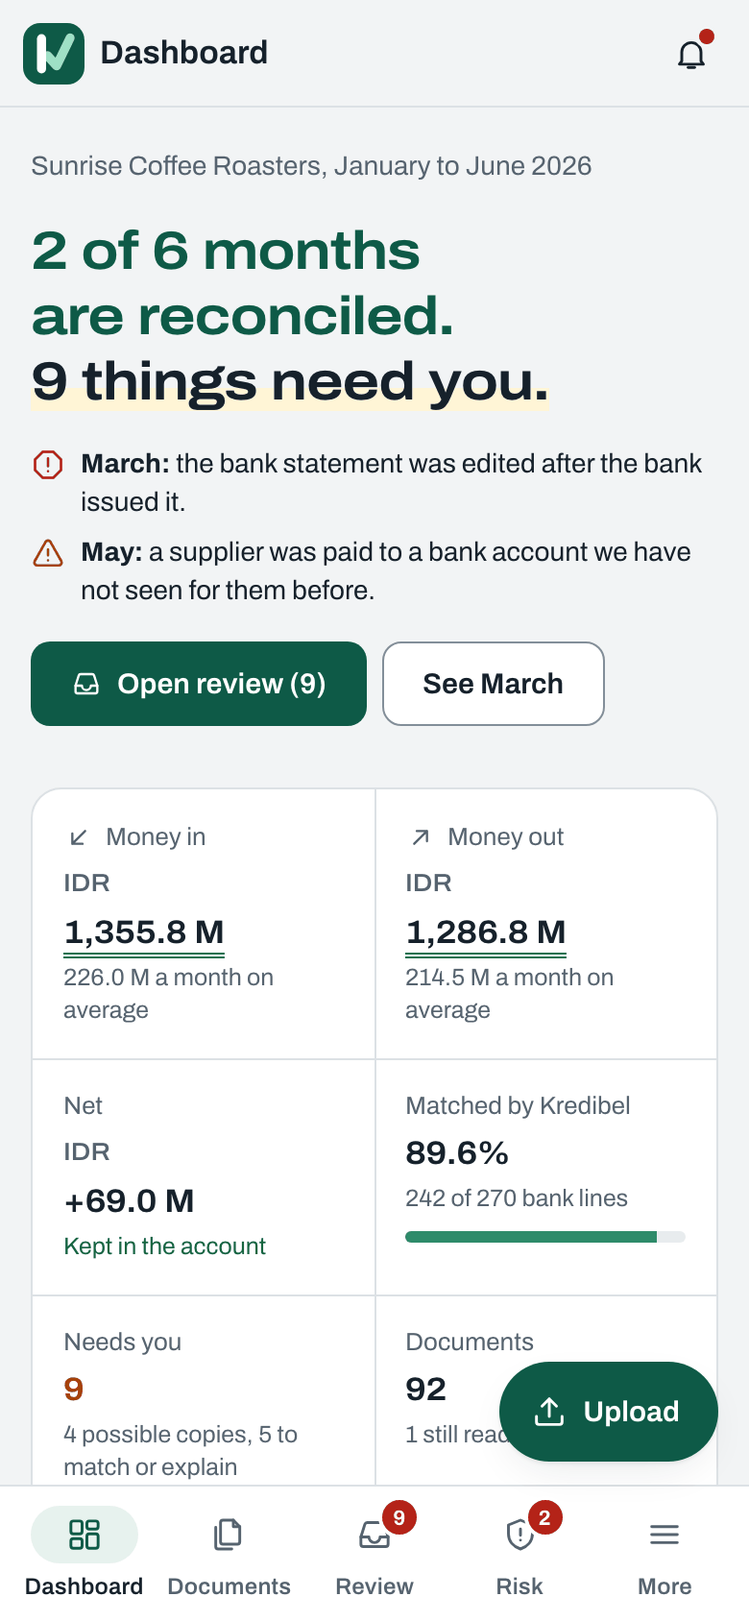
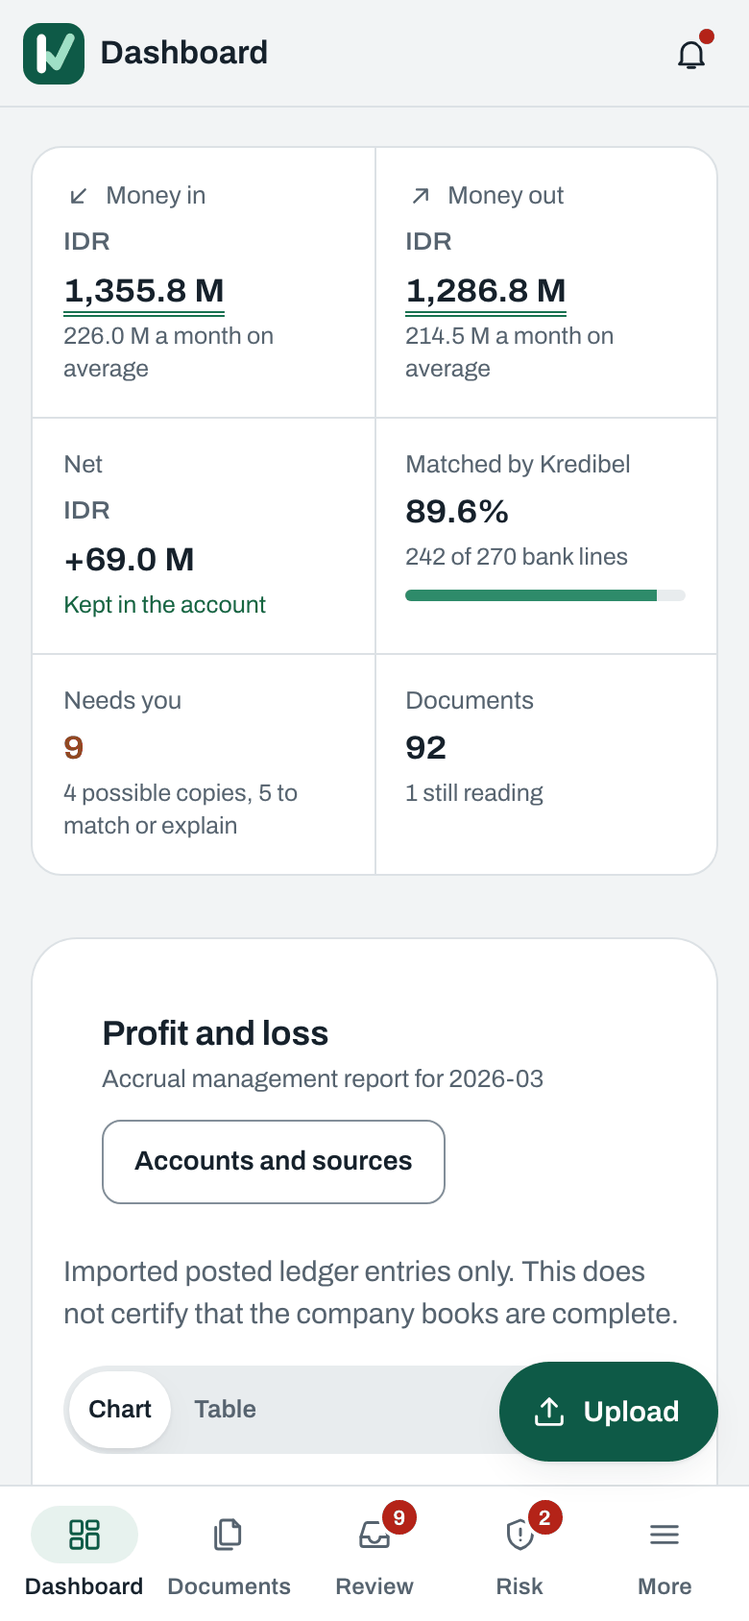
feat(018): align P&L dashboard mocks and render interactive P&L diagram in assistant
Tasks: T018-04, T018-05, T018-06

Changed region(s): [[0.0308, 0.0924, 0.9231, 0.9242]]

diff --git a/design/mocks/dashboard.html b/design/mocks/dashboard.html
@@ -37,16 +37,6 @@
 <div class="page">
   <div class="dash">
     
-<section class="status-hero" aria-labelledby="status-h">
-  <p class="greeting">Sunrise Coffee Roasters, January to June 2026</p>
-  <h1 class="status-sentence" id="status-h"><span class="done">2 of 6 months are reconciled.</span> <span class="ask">9 things need you.</span></h1>
-  <ul class="why">
-    <li><span class="sev-critical"><svg class="icon" viewBox="0 0 24 24" aria-hidden="true"><path d="M8.3 3h7.4L21 8.3v7.4L15.7 21H8.3L3 15.7V8.3z"/><path d="M12 7.5V13M12 16.5h.01"/></svg></span><span><strong>March:</strong> the bank statement was edited after the bank issued it.</span></li>
-    <li><span class="sev-high"><svg class="icon" viewBox="0 0 24 24" aria-hidden="true"><path d="M10.3 4.2 2.8 17.5a2 2 0 0 0 1.7 3h15a2 2 0 0 0 1.7-3L13.7 4.2a2 2 0 0 0-3.4 0z"/><path d="M12 9.5v4M12 17h.01"/></svg></span><span><strong>May:</strong> a supplier was paid to a bank account we have not seen for them before.</span></li>
-  </ul>
-  <div class="actions"><a class="button button-primary button-lg" href="review.html"><svg class="icon icon-sm" viewBox="0 0 24 24" aria-hidden="true"><path d="M3.5 13.5 6 5.5A1.5 1.5 0 0 1 7.4 4.5h9.2A1.5 1.5 0 0 1 18 5.5l2.5 8"/><path d="M3.5 13.5V18A1.5 1.5 0 0 0 5 19.5h14a1.5 1.5 0 0 0 1.5-1.5v-4.5h-5a3.5 3.5 0 0 1-7 0z"/></svg>Open review (9)</a><a class="button button-secondary button-lg" href="month.html">See March</a></div>
-</section>
-    
 <section class="ledger" aria-label="Figures for January to June 2026">
   <dl class="ledger-figures">
     <div><dt><svg class="icon icon-sm" viewBox="0 0 24 24" aria-hidden="true"><path d="M17 7 7 17M7 9v8h8"/></svg>Money in</dt><dd class="v"><small>IDR</small><span class="reading reading-agreed">1,355.8 M</span></dd><dd class="n">226.0 M a month on average</dd></div>
@@ -58,29 +48,14 @@
   </dl>
 </section>
     
-<div class="dash-lists">
-  <section class="panel" aria-labelledby="todo-h">
-    <div class="panel-head"><h2 id="todo-h">Needs you</h2><a class="link" href="review.html">All 9</a></div>
-    <ul class="todo-list"><li><a class="todo" href="review.html"><span class="kind match"><svg class="icon" viewBox="0 0 24 24" aria-hidden="true"><path d="M10 14a4 4 0 0 0 5.7 0l3-3a4 4 0 0 0-5.7-5.7l-1 1"/><path d="M14 10a4 4 0 0 0-5.7 0l-3 3a4 4 0 0 0 5.7 5.7l1-1"/></svg></span><span><span class="t">IDR 7,250,000 on 14 Mar differs from your ledger</span><br/><span class="s">Harborview Hotel Group; the March statement looks edited</span></span><span class="go"><svg class="icon" viewBox="0 0 24 24" aria-hidden="true"><path d="m9.5 6 6 6-6 6"/></svg></span></a></li><li><a class="todo" href="review.html"><span class="kind dup"><svg class="icon" viewBox="0 0 24 24" aria-hidden="true"><rect x="8" y="8" width="12" height="12" rx="2"/><path d="M16 8V5.5A1.5 1.5 0 0 0 14.5 4h-9A1.5 1.5 0 0 0 4 5.5v9A1.5 1.5 0 0 0 5.5 16H8"/></svg></span><span><span class="t">Possible copy of the February statement</span><br/><span class="s">ACB_Feb_2026 (re-download).pdf has the same 45 lines</span></span><span class="go"><svg class="icon" viewBox="0 0 24 24" aria-hidden="true"><path d="m9.5 6 6 6-6 6"/></svg></span></a></li><li><a class="todo" href="review.html"><span class="kind match"><svg class="icon" viewBox="0 0 24 24" aria-hidden="true"><path d="M10 14a4 4 0 0 0 5.7 0l3-3a4 4 0 0 0-5.7-5.7l-1 1"/><path d="M14 10a4 4 0 0 0-5.7 0l-3 3a4 4 0 0 0 5.7 5.7l1-1"/></svg></span><span><span class="t">IDR 18,700,000 on 9 Feb fits two invoices</span><br/><span class="s">Daybreak Café, invoices 0003 and 0004</span></span><span class="go"><svg class="icon" viewBox="0 0 24 24" aria-hidden="true"><path d="m9.5 6 6 6-6 6"/></svg></span></a></li><li><a class="todo" href="review.html"><span class="kind doc"><svg class="icon" viewBox="0 0 24 24" aria-hidden="true"><path d="M14 3H6.5A1.5 1.5 0 0 0 5 4.5v15A1.5 1.5 0 0 0 6.5 21h11a1.5 1.5 0 0 0 1.5-1.5V8z"/><path d="M14 3v5h5M8.5 13h7M8.5 16.5h7"/></svg></span><span><span class="t">Two Bluewater Trading Co. invoices never paid</span><br/><span class="s">No bank line or ledger entry for either</span></span><span class="go"><svg class="icon" viewBox="0 0 24 24" aria-hidden="true"><path d="m9.5 6 6 6-6 6"/></svg></span></a></li><li><a class="todo" href="review.html"><span class="kind doc"><svg class="icon" viewBox="0 0 24 24" aria-hidden="true"><path d="M4 7.5A2.5 2.5 0 0 1 6.5 5H18v3"/><path d="M4 7.5V17a2 2 0 0 0 2 2h13a1 1 0 0 0 1-1v-9a1 1 0 0 0-1-1H6.5A2.5 2.5 0 0 1 4 7.5z"/><circle cx="16" cy="13.5" r="1"/></svg></span><span><span class="t">Cash deposit of IDR 2,150,000 is not in the ledger</span><br/><span class="s">21 Jun, ACB ••4821</span></span><span class="go"><svg class="icon" viewBox="0 0 24 24" aria-hidden="true"><path d="m9.5 6 6 6-6 6"/></svg></span></a></li></ul>
-  </section>
-  <section class="panel" aria-labelledby="risk-h">
-    <div class="panel-head"><h2 id="risk-h">Risk</h2><a class="link" href="risk.html">All findings</a></div>
-    <ul class="alert-list">
-      <li><a href="evidence-viewer.html"><span class="sev"><span class="badge badge-critical"><svg class="icon" viewBox="0 0 24 24" aria-hidden="true"><path d="M8.3 3h7.4L21 8.3v7.4L15.7 21H8.3L3 15.7V8.3z"/><path d="M12 7.5V13M12 16.5h.01"/></svg>Critical</span></span><span><p class="a-t">March statement edited after the bank issued it</p><p class="a-s">Balance breaks on 14 Mar; a later revision in a PDF editor</p></span></a></li>
-      <li><a href="risk.html"><span class="sev"><span class="badge badge-high"><svg class="icon" viewBox="0 0 24 24" aria-hidden="true"><path d="M10.3 4.2 2.8 17.5a2 2 0 0 0 1.7 3h15a2 2 0 0 0 1.7-3L13.7 4.2a2 2 0 0 0-3.4 0z"/><path d="M12 9.5v4M12 17h.01"/></svg>High</span></span><span><p class="a-t">Roastline Equipment Service paid to a new account</p><p class="a-s">6 May, IDR 24,500,000 to Meridian Savings ••7720; before: ACB ••3381</p></span></a></li>
-      <li><a href="risk.html"><span class="sev"><span class="badge badge-medium"><svg class="icon" viewBox="0 0 24 24" aria-hidden="true"><circle cx="12" cy="12" r="9"/><path d="M12 7.5V13M12 16.5h.01"/></svg>Medium</span></span><span><p class="a-t">Invoices from an unknown supplier</p><p class="a-s">Bluewater Trading Co., 2 invoices, never paid, not in the ledger</p></span></a></li>
-    </ul>
-  </section>
-</div>
-    <section class="chart-panel panel-pad stack gap-4" aria-label="Profit and loss">
+<section class="charts" aria-labelledby="charts-h">
+  <section class="chart-panel panel-pad stack gap-4" aria-label="Profit and loss">
       <div class="chart-head"><div><h2 class="type-h2">Profit and loss</h2><p>Accrual management report for 2026-03</p></div><a class="button button-secondary" href="profit-loss.html">Accounts and sources</a></div>
       <p class="muted">Imported posted ledger entries only. This does not certify that the company books are complete.</p>
       <div class="seg" role="group" aria-label="Profit and loss view"><button type="button" data-group="pnlview" data-value="chart" aria-pressed="true">Chart</button><button type="button" data-group="pnlview" data-value="table" aria-pressed="false">Table</button></div>
       <div class="pnl-bars" data-show-group="pnlview" data-show-value="chart"><div class="pnl-row"><span>Revenue</span><strong class="num">IDR 120,000,000</strong><span class="pnl-track" aria-hidden="true"><span class="pnl-bar" style="width:100.00%"></span></span></div><div class="pnl-row"><span>Cost of sales</span><strong class="num">IDR 72,000,000</strong><span class="pnl-track" aria-hidden="true"><span class="pnl-bar" style="width:60.00%"></span></span></div><div class="pnl-row"><span>Gross profit</span><strong class="num">IDR 48,000,000</strong><span class="pnl-track" aria-hidden="true"><span class="pnl-bar" style="width:40.00%"></span></span></div><div class="pnl-row"><span>Operating expenses</span><strong class="num">IDR 18,000,000</strong><span class="pnl-track" aria-hidden="true"><span class="pnl-bar" style="width:15.00%"></span></span></div><div class="pnl-row"><span>Operating profit</span><strong class="num">IDR 30,000,000</strong><span class="pnl-track" aria-hidden="true"><span class="pnl-bar" style="width:25.00%"></span></span></div><div class="pnl-row"><span>Other income</span><strong class="num">IDR 1,000,000</strong><span class="pnl-track" aria-hidden="true"><span class="pnl-bar" style="width:0.83%"></span></span></div><div class="pnl-row"><span>Finance costs</span><strong class="num">IDR 2,000,000</strong><span class="pnl-track" aria-hidden="true"><span class="pnl-bar" style="width:1.67%"></span></span></div><div class="pnl-row"><span>Income tax</span><strong class="num">IDR 3,000,000</strong><span class="pnl-track" aria-hidden="true"><span class="pnl-bar" style="width:2.50%"></span></span></div><div class="pnl-row"><span>Net profit</span><strong class="num">IDR 26,000,000</strong><span class="pnl-track" aria-hidden="true"><span class="pnl-bar" style="width:21.67%"></span></span></div></div>
       <div class="table-wrap" data-show-group="pnlview" data-show-value="table" hidden><table class="table"><thead><tr><th scope="col">P&amp;L line</th><th scope="col" class="num">Amount</th></tr></thead><tbody><tr><th scope="row">Revenue</th><td class="num">IDR 120,000,000</td></tr><tr><th scope="row">Cost of sales</th><td class="num">IDR 72,000,000</td></tr><tr><th scope="row">Gross profit</th><td class="num">IDR 48,000,000</td></tr><tr><th scope="row">Operating expenses</th><td class="num">IDR 18,000,000</td></tr><tr><th scope="row">Operating profit</th><td class="num">IDR 30,000,000</td></tr><tr><th scope="row">Other income</th><td class="num">IDR 1,000,000</td></tr><tr><th scope="row">Finance costs</th><td class="num">IDR 2,000,000</td></tr><tr><th scope="row">Income tax</th><td class="num">IDR 3,000,000</td></tr><tr><th scope="row">Net profit</th><td class="num">IDR 26,000,000</td></tr></tbody></table></div>
     </section>
-    
-<section class="charts" aria-labelledby="charts-h">
   <div class="section-head charts-section-head">
     <div><h2 class="type-h2" id="charts-h">Where the money went</h2><p>January to June 2026, IDR millions, grouped the way your accounting framework groups cash flows.</p></div>
     <div class="fw-switch"><span>Framework</span><div class="seg" role="group" aria-label="Accounting framework"><button type="button" data-group="fw" data-value="IFRS" aria-pressed="true">IFRS</button><button type="button" data-group="fw" data-value="US_GAAP" aria-pressed="false">US GAAP</button></div></div>
@@ -124,6 +99,31 @@
   <div class="chart-wide"><div data-show-group="fw" data-show-value="IFRS"><svg class="chart waterfall" viewBox="0 0 1200 256" role="img" aria-label="Cash-flow statement January to June 2026, IFRS"><text class="wf-label" x="238" y="44.0" text-anchor="end">Opening balance</text><rect class="wf total" x="250.0" y="24.0" width="101.2" height="30" rx="4"/><text class="wf-val" x="359.2" y="44.0">29.3</text><line class="wf-link" x1="351.2" x2="351.2" y1="54.0" y2="70.0"/><text class="wf-label" x="238" y="90.0" text-anchor="end">Operating activities</text><rect class="wf operating" x="351.2" y="70.0" width="694.3" height="30" rx="4"/><text class="wf-val" x="1053.5" y="90.0">+201.0</text><line class="wf-link" x1="1045.5" x2="1045.5" y1="100.0" y2="116.0"/><text class="wf-label" x="238" y="136.0" text-anchor="end">Investing activities</text><rect class="wf investing" x="1045.5" y="116.0" width="2.0" height="30" rx="4"/><text class="wf-val" x="1053.5" y="136.0">+0.0</text><line class="wf-link" x1="1045.5" x2="1045.5" y1="146.0" y2="162.0"/><text class="wf-label" x="238" y="182.0" text-anchor="end">Financing activities</text><rect class="wf financing neg" x="589.5" y="162.0" width="455.9" height="30" rx="4"/><text class="wf-val" x="1053.5" y="182.0">−132.0</text><line class="wf-link" x1="589.5" x2="589.5" y1="192.0" y2="208.0"/><text class="wf-label" x="238" y="228.0" text-anchor="end">Closing balance</text><rect class="wf total" x="250.0" y="208.0" width="339.5" height="30" rx="4"/><text class="wf-val" x="597.5" y="228.0">98.3</text></svg></div><div data-show-group="fw" data-show-value="US_GAAP" hidden><svg class="chart waterfall" viewBox="0 0 1200 256" role="img" aria-label="Cash-flow statement January to June 2026, US GAAP"><text class="wf-label" x="238" y="44.0" text-anchor="end">Opening balance</text><rect class="wf total" x="250.0" y="24.0" width="106.5" height="30" rx="4"/><text class="wf-val" x="364.5" y="44.0">29.3</text><line class="wf-link" x1="356.5" x2="356.5" y1="54.0" y2="70.0"/><text class="wf-label" x="238" y="90.0" text-anchor="end">Operating activities</text><rect class="wf operating" x="356.5" y="70.0" width="687.1" height="30" rx="4"/><text class="wf-val" x="1051.6" y="90.0">+189.0</text><line class="wf-link" x1="1043.6" x2="1043.6" y1="100.0" y2="116.0"/><text class="wf-label" x="238" y="136.0" text-anchor="end">Investing activities</text><rect class="wf investing" x="1043.6" y="116.0" width="2.0" height="30" rx="4"/><text class="wf-val" x="1051.6" y="136.0">+0.0</text><line class="wf-link" x1="1043.6" x2="1043.6" y1="146.0" y2="162.0"/><text class="wf-label" x="238" y="182.0" text-anchor="end">Financing activities</text><rect class="wf financing neg" x="607.4" y="162.0" width="436.3" height="30" rx="4"/><text class="wf-val" x="1051.6" y="182.0">−120.0</text><line class="wf-link" x1="607.4" x2="607.4" y1="192.0" y2="208.0"/><text class="wf-label" x="238" y="228.0" text-anchor="end">Closing balance</text><rect class="wf total" x="250.0" y="208.0" width="357.4" height="30" rx="4"/><text class="wf-val" x="615.4" y="228.0">98.3</text></svg></div></div><div class="chart-medium"><div data-show-group="fw" data-show-value="IFRS"><svg class="chart waterfall" viewBox="0 0 800 256" role="img" aria-label="Cash-flow statement January to June 2026, IFRS"><text class="wf-label" x="188" y="44.0" text-anchor="end">Opening balance</text><rect class="wf total" x="200.0" y="24.0" width="62.2" height="30" rx="4"/><text class="wf-val" x="270.2" y="44.0">29.3</text><line class="wf-link" x1="262.2" x2="262.2" y1="54.0" y2="70.0"/><text class="wf-label" x="188" y="90.0" text-anchor="end">Operating activities</text><rect class="wf operating" x="262.2" y="70.0" width="426.6" height="30" rx="4"/><text class="wf-val" x="696.8" y="90.0">+201.0</text><line class="wf-link" x1="688.8" x2="688.8" y1="100.0" y2="116.0"/><text class="wf-label" x="188" y="136.0" text-anchor="end">Investing activities</text><rect class="wf investing" x="688.8" y="116.0" width="2.0" height="30" rx="4"/><text class="wf-val" x="696.8" y="136.0">+0.0</text><line class="wf-link" x1="688.8" x2="688.8" y1="146.0" y2="162.0"/><text class="wf-label" x="188" y="182.0" text-anchor="end">Financing activities</text><rect class="wf financing neg" x="408.6" y="162.0" width="280.1" height="30" rx="4"/><text class="wf-val" x="696.8" y="182.0">−132.0</text><line class="wf-link" x1="408.6" x2="408.6" y1="192.0" y2="208.0"/><text class="wf-label" x="188" y="228.0" text-anchor="end">Closing balance</text><rect class="wf total" x="200.0" y="208.0" width="208.6" height="30" rx="4"/><text class="wf-val" x="416.6" y="228.0">98.3</text></svg></div><div data-show-group="fw" data-show-value="US_GAAP" hidden><svg class="chart waterfall" viewBox="0 0 800 256" role="img" aria-label="Cash-flow statement January to June 2026, US GAAP"><text class="wf-label" x="188" y="44.0" text-anchor="end">Opening balance</text><rect class="wf total" x="200.0" y="24.0" width="65.5" height="30" rx="4"/><text class="wf-val" x="273.5" y="44.0">29.3</text><line class="wf-link" x1="265.5" x2="265.5" y1="54.0" y2="70.0"/><text class="wf-label" x="188" y="90.0" text-anchor="end">Operating activities</text><rect class="wf operating" x="265.5" y="70.0" width="422.2" height="30" rx="4"/><text class="wf-val" x="695.7" y="90.0">+189.0</text><line class="wf-link" x1="687.7" x2="687.7" y1="100.0" y2="116.0"/><text class="wf-label" x="188" y="136.0" text-anchor="end">Investing activities</text><rect class="wf investing" x="687.7" y="116.0" width="2.0" height="30" rx="4"/><text class="wf-val" x="695.7" y="136.0">+0.0</text><line class="wf-link" x1="687.7" x2="687.7" y1="146.0" y2="162.0"/><text class="wf-label" x="188" y="182.0" text-anchor="end">Financing activities</text><rect class="wf financing neg" x="419.6" y="162.0" width="268.1" height="30" rx="4"/><text class="wf-val" x="695.7" y="182.0">−120.0</text><line class="wf-link" x1="419.6" x2="419.6" y1="192.0" y2="208.0"/><text class="wf-label" x="188" y="228.0" text-anchor="end">Closing balance</text><rect class="wf total" x="200.0" y="208.0" width="219.6" height="30" rx="4"/><text class="wf-val" x="427.6" y="228.0">98.3</text></svg></div></div><div class="chart-compact"><div data-show-group="fw" data-show-value="IFRS"><svg class="chart waterfall" viewBox="0 0 380 222" role="img" aria-label="Cash-flow statement January to June 2026, IFRS"><text class="wf-label" x="138" y="37.0" text-anchor="end">Opening balance</text><rect class="wf total" x="150.0" y="20.0" width="20.2" height="24" rx="4"/><text class="wf-val" x="178.2" y="37.0">29.3</text><line class="wf-link" x1="170.2" x2="170.2" y1="44.0" y2="60.0"/><text class="wf-label" x="138" y="77.0" text-anchor="end">Operating activities</text><rect class="wf operating" x="170.2" y="60.0" width="138.9" height="24" rx="4"/><text class="wf-val" x="317.1" y="77.0">+201.0</text><line class="wf-link" x1="309.1" x2="309.1" y1="84.0" y2="100.0"/><text class="wf-label" x="138" y="117.0" text-anchor="end">Investing activities</text><rect class="wf investing" x="309.1" y="100.0" width="2.0" height="24" rx="4"/><text class="wf-val" x="317.1" y="117.0">+0.0</text><line class="wf-link" x1="309.1" x2="309.1" y1="124.0" y2="140.0"/><text class="wf-label" x="138" y="157.0" text-anchor="end">Financing activities</text><rect class="wf financing neg" x="217.9" y="140.0" width="91.2" height="24" rx="4"/><text class="wf-val" x="317.1" y="157.0">−132.0</text><line class="wf-link" x1="217.9" x2="217.9" y1="164.0" y2="180.0"/><text class="wf-label" x="138" y="197.0" text-anchor="end">Closing balance</text><rect class="wf total" x="150.0" y="180.0" width="67.9" height="24" rx="4"/><text class="wf-val" x="225.9" y="197.0">98.3</text></svg></div><div data-show-group="fw" data-show-value="US_GAAP" hidden><svg class="chart waterfall" viewBox="0 0 380 222" role="img" aria-label="Cash-flow statement January to June 2026, US GAAP"><text class="wf-label" x="138" y="37.0" text-anchor="end">Opening balance</text><rect class="wf total" x="150.0" y="20.0" width="21.3" height="24" rx="4"/><text class="wf-val" x="179.3" y="37.0">29.3</text><line class="wf-link" x1="171.3" x2="171.3" y1="44.0" y2="60.0"/><text class="wf-label" x="138" y="77.0" text-anchor="end">Operating activities</text><rect class="wf operating" x="171.3" y="60.0" width="137.4" height="24" rx="4"/><text class="wf-val" x="316.7" y="77.0">+189.0</text><line class="wf-link" x1="308.7" x2="308.7" y1="84.0" y2="100.0"/><text class="wf-label" x="138" y="117.0" text-anchor="end">Investing activities</text><rect class="wf investing" x="308.7" y="100.0" width="2.0" height="24" rx="4"/><text class="wf-val" x="316.7" y="117.0">+0.0</text><line class="wf-link" x1="308.7" x2="308.7" y1="124.0" y2="140.0"/><text class="wf-label" x="138" y="157.0" text-anchor="end">Financing activities</text><rect class="wf financing neg" x="221.5" y="140.0" width="87.3" height="24" rx="4"/><text class="wf-val" x="316.7" y="157.0">−120.0</text><line class="wf-link" x1="221.5" x2="221.5" y1="164.0" y2="180.0"/><text class="wf-label" x="138" y="197.0" text-anchor="end">Closing balance</text><rect class="wf total" x="150.0" y="180.0" width="71.5" height="24" rx="4"/><text class="wf-val" x="229.5" y="197.0">98.3</text></svg></div></div>
 </article>
 </section>
+    
+<section class="status-hero" aria-labelledby="status-h">
+  <p class="greeting">Sunrise Coffee Roasters, January to June 2026</p>
+  <h1 class="status-sentence" id="status-h"><span class="done">2 of 6 months are reconciled.</span> <span class="ask">9 things need you.</span></h1>
+  <ul class="why">
+    <li><span class="sev-critical"><svg class="icon" viewBox="0 0 24 24" aria-hidden="true"><path d="M8.3 3h7.4L21 8.3v7.4L15.7 21H8.3L3 15.7V8.3z"/><path d="M12 7.5V13M12 16.5h.01"/></svg></span><span><strong>March:</strong> the bank statement was edited after the bank issued it.</span></li>
+    <li><span class="sev-high"><svg class="icon" viewBox="0 0 24 24" aria-hidden="true"><path d="M10.3 4.2 2.8 17.5a2 2 0 0 0 1.7 3h15a2 2 0 0 0 1.7-3L13.7 4.2a2 2 0 0 0-3.4 0z"/><path d="M12 9.5v4M12 17h.01"/></svg></span><span><strong>May:</strong> a supplier was paid to a bank account we have not seen for them before.</span></li>
+  </ul>
+  <div class="actions"><a class="button button-primary button-lg" href="review.html"><svg class="icon icon-sm" viewBox="0 0 24 24" aria-hidden="true"><path d="M3.5 13.5 6 5.5A1.5 1.5 0 0 1 7.4 4.5h9.2A1.5 1.5 0 0 1 18 5.5l2.5 8"/><path d="M3.5 13.5V18A1.5 1.5 0 0 0 5 19.5h14a1.5 1.5 0 0 0 1.5-1.5v-4.5h-5a3.5 3.5 0 0 1-7 0z"/></svg>Open review (9)</a><a class="button button-secondary button-lg" href="month.html">See March</a></div>
+</section>
+    
+<div class="dash-lists">
+  <section class="panel" aria-labelledby="todo-h">
+    <div class="panel-head"><h2 id="todo-h">Needs you</h2><a class="link" href="review.html">All 9</a></div>
+    <ul class="todo-list"><li><a class="todo" href="review.html"><span class="kind match"><svg class="icon" viewBox="0 0 24 24" aria-hidden="true"><path d="M10 14a4 4 0 0 0 5.7 0l3-3a4 4 0 0 0-5.7-5.7l-1 1"/><path d="M14 10a4 4 0 0 0-5.7 0l-3 3a4 4 0 0 0 5.7 5.7l1-1"/></svg></span><span><span class="t">IDR 7,250,000 on 14 Mar differs from your ledger</span><br/><span class="s">Harborview Hotel Group; the March statement looks edited</span></span><span class="go"><svg class="icon" viewBox="0 0 24 24" aria-hidden="true"><path d="m9.5 6 6 6-6 6"/></svg></span></a></li><li><a class="todo" href="review.html"><span class="kind dup"><svg class="icon" viewBox="0 0 24 24" aria-hidden="true"><rect x="8" y="8" width="12" height="12" rx="2"/><path d="M16 8V5.5A1.5 1.5 0 0 0 14.5 4h-9A1.5 1.5 0 0 0 4 5.5v9A1.5 1.5 0 0 0 5.5 16H8"/></svg></span><span><span class="t">Possible copy of the February statement</span><br/><span class="s">ACB_Feb_2026 (re-download).pdf has the same 45 lines</span></span><span class="go"><svg class="icon" viewBox="0 0 24 24" aria-hidden="true"><path d="m9.5 6 6 6-6 6"/></svg></span></a></li><li><a class="todo" href="review.html"><span class="kind match"><svg class="icon" viewBox="0 0 24 24" aria-hidden="true"><path d="M10 14a4 4 0 0 0 5.7 0l3-3a4 4 0 0 0-5.7-5.7l-1 1"/><path d="M14 10a4 4 0 0 0-5.7 0l-3 3a4 4 0 0 0 5.7 5.7l1-1"/></svg></span><span><span class="t">IDR 18,700,000 on 9 Feb fits two invoices</span><br/><span class="s">Daybreak Café, invoices 0003 and 0004</span></span><span class="go"><svg class="icon" viewBox="0 0 24 24" aria-hidden="true"><path d="m9.5 6 6 6-6 6"/></svg></span></a></li><li><a class="todo" href="review.html"><span class="kind doc"><svg class="icon" viewBox="0 0 24 24" aria-hidden="true"><path d="M14 3H6.5A1.5 1.5 0 0 0 5 4.5v15A1.5 1.5 0 0 0 6.5 21h11a1.5 1.5 0 0 0 1.5-1.5V8z"/><path d="M14 3v5h5M8.5 13h7M8.5 16.5h7"/></svg></span><span><span class="t">Two Bluewater Trading Co. invoices never paid</span><br/><span class="s">No bank line or ledger entry for either</span></span><span class="go"><svg class="icon" viewBox="0 0 24 24" aria-hidden="true"><path d="m9.5 6 6 6-6 6"/></svg></span></a></li><li><a class="todo" href="review.html"><span class="kind doc"><svg class="icon" viewBox="0 0 24 24" aria-hidden="true"><path d="M4 7.5A2.5 2.5 0 0 1 6.5 5H18v3"/><path d="M4 7.5V17a2 2 0 0 0 2 2h13a1 1 0 0 0 1-1v-9a1 1 0 0 0-1-1H6.5A2.5 2.5 0 0 1 4 7.5z"/><circle cx="16" cy="13.5" r="1"/></svg></span><span><span class="t">Cash deposit of IDR 2,150,000 is not in the ledger</span><br/><span class="s">21 Jun, ACB ••4821</span></span><span class="go"><svg class="icon" viewBox="0 0 24 24" aria-hidden="true"><path d="m9.5 6 6 6-6 6"/></svg></span></a></li></ul>
+  </section>
+  <section class="panel" aria-labelledby="risk-h">
+    <div class="panel-head"><h2 id="risk-h">Risk</h2><a class="link" href="risk.html">All findings</a></div>
+    <ul class="alert-list">
+      <li><a href="evidence-viewer.html"><span class="sev"><span class="badge badge-critical"><svg class="icon" viewBox="0 0 24 24" aria-hidden="true"><path d="M8.3 3h7.4L21 8.3v7.4L15.7 21H8.3L3 15.7V8.3z"/><path d="M12 7.5V13M12 16.5h.01"/></svg>Critical</span></span><span><p class="a-t">March statement edited after the bank issued it</p><p class="a-s">Balance breaks on 14 Mar; a later revision in a PDF editor</p></span></a></li>
+      <li><a href="risk.html"><span class="sev"><span class="badge badge-high"><svg class="icon" viewBox="0 0 24 24" aria-hidden="true"><path d="M10.3 4.2 2.8 17.5a2 2 0 0 0 1.7 3h15a2 2 0 0 0 1.7-3L13.7 4.2a2 2 0 0 0-3.4 0z"/><path d="M12 9.5v4M12 17h.01"/></svg>High</span></span><span><p class="a-t">Roastline Equipment Service paid to a new account</p><p class="a-s">6 May, IDR 24,500,000 to Meridian Savings ••7720; before: ACB ••3381</p></span></a></li>
+      <li><a href="risk.html"><span class="sev"><span class="badge badge-medium"><svg class="icon" viewBox="0 0 24 24" aria-hidden="true"><circle cx="12" cy="12" r="9"/><path d="M12 7.5V13M12 16.5h.01"/></svg>Medium</span></span><span><p class="a-t">Invoices from an unknown supplier</p><p class="a-s">Bluewater Trading Co., 2 invoices, never paid, not in the ledger</p></span></a></li>
+    </ul>
+  </section>
+</div>
     
 <section aria-labelledby="months-h">
   <div class="section-head"><h2 class="type-h2" id="months-h">Months</h2><a class="link" href="month.html">Reconciliation</a></div>

diff --git a/design/mocks/assistant.html b/design/mocks/assistant.html
@@ -61,10 +61,23 @@
             <p>The quickest check is to download March again from internet banking and upload it. Want me to open the evidence?</p>
             <div class="row"><a class="button button-secondary button-sm" href="evidence-viewer.html">Open the evidence</a><a class="button button-quiet button-sm" href="month.html">Go to March</a></div>
           </div>
+        <p class="msg-user">Show my profit and loss for 2026-03</p>
+        <div class="msg-ai"><img class="ai-mark" src="../brand/kredibel-mark.svg" alt="Kredibel"/>
+          <div class="bubble">
+            <p>Accrual management P&amp;L from imported posted ledger entries only. These totals do not certify that the company books are complete.</p>
+            <div class="mini-bars" role="img" aria-label="Profit and loss for 2026-03">
+              <div class="mb"><span>Revenue</span><span class="bar" style="width:100%"></span><b>120.0 M</b></div>
+              <div class="mb"><span>Cost of sales</span><span class="bar" style="width:60%"></span><b>72.0 M</b></div>
+              <div class="mb"><span>Gross profit</span><span class="bar" style="width:40%"></span><b>48.0 M</b></div>
+              <div class="mb"><span>Operating expenses</span><span class="bar" style="width:15%"></span><b>18.0 M</b></div>
+              <div class="mb"><span>Net profit</span><span class="bar" style="width:22%"></span><b>26.0 M</b></div>
+            </div>
+            <p>Net profit: IDR 26,000,000 <a class="citation" href="profit-loss.html">Net profit</a></p>
+            <div class="row"><a class="button button-secondary button-sm" href="profit-loss.html">Open profit and loss</a></div>
+            <span class="grounded"><svg class="icon" viewBox="0 0 24 24" aria-hidden="true"><path d="M12 3 4.5 6v5.5c0 4.6 3.1 8 7.5 9.5 4.4-1.5 7.5-4.9 7.5-9.5V6z"/><path d="m8.8 12 2.2 2.2 4.3-4.4"/></svg>Every number checked against your books</span>
+          </div>
         </div>
       </div>
-      <p class="msg-user">Show my profit and loss for 2026-03</p>
-      <div class="msg-ai"><div class="bubble"><p>Accrual management P&amp;L from imported posted ledger entries only. These totals do not certify that the company books are complete.</p><p>Net profit: IDR 26,000,000 <a class="citation" href="profit-loss.html">Net profit</a></p><a class="button button-secondary" href="profit-loss.html">Open profit and loss</a></div></div>
       <div class="suggested" aria-label="Suggested questions"><a href="assistant.html">Which invoices are still unpaid?</a><a href="assistant.html">Where did the money go in Q2?</a><a href="assistant.html">Who are my biggest clients?</a></div>
       <div class="composer"><p>Ask about your books</p><button class="button button-primary" type="button" aria-label="Send"><svg class="icon icon-sm" viewBox="0 0 24 24" aria-hidden="true"><path d="m4 12 16-8-6 16-2.5-6.5z"/><path d="m11.5 13.5 3-3"/></svg></button></div>
     </div>

diff --git a/frontend/src/widgets/assistant/AnswerParts.tsx b/frontend/src/widgets/assistant/AnswerParts.tsx
@@ -112,22 +112,32 @@ function renderFormattedContent(text: string) {
 /** Render interactive chart/diagram preview and dashboard link button. */
 function ChartPart({ part }: { part: AnswerPart }) {
   const { t } = useTranslation(['assistant', 'profitLoss'])
-  if (part.chart === 'PROFIT_LOSS') {
-    return <Link className="button button-secondary" to={`/profit-loss?period=${encodeURIComponent(String(part.query?.period ?? 'recent'))}`}>{t('profitLoss:open')}</Link>
-  }
+  const isPnl = part.chart === 'PROFIT_LOSS'
   const isFlow = part.chart === 'MONEY_FLOW'
   const isInOut = part.chart === 'MONTHLY_IN_OUT'
   const isUnpaid = part.chart === 'INVOICE_BREAKDOWN'
   const diagramIcon = isFlow ? 'flow' : isUnpaid ? 'file-text' : 'bar-chart'
-  const targetUrl = isUnpaid ? '/documents' : part.query?.month ? `/months/${String(part.query.month)}` : '/dashboard'
-  const chartLabel = isFlow
-    ? t('assistant:charts.moneyFlow')
-    : isInOut
-      ? t('assistant:charts.monthlyInOut')
-      : isUnpaid
-        ? t('assistant:charts.unpaidInvoices')
-        : t('assistant:charts.categoryBreakdown')
-  const buttonLabel = isUnpaid ? t('assistant:seeInvoicesClick') : t('assistant:seeFullDiagramClick')
+  const targetUrl = isPnl
+    ? `/profit-loss?period=${encodeURIComponent(String(part.query?.period ?? 'recent'))}`
+    : isUnpaid
+      ? '/documents'
+      : part.query?.month
+        ? `/months/${String(part.query.month)}`
+        : '/dashboard'
+  const chartLabel = isPnl
+    ? t('assistant:charts.profitLoss')
+    : isFlow
+      ? t('assistant:charts.moneyFlow')
+      : isInOut
+        ? t('assistant:charts.monthlyInOut')
+        : isUnpaid
+          ? t('assistant:charts.unpaidInvoices')
+          : t('assistant:charts.categoryBreakdown')
+  const buttonLabel = isPnl
+    ? t('profitLoss:open')
+    : isUnpaid
+      ? t('assistant:seeInvoicesClick')
+      : t('assistant:seeFullDiagramClick')
 
   return (
     <div className="stack gap-2 my-1">

diff --git a/tools/design/mocks/screens.py b/tools/design/mocks/screens.py
@@ -169,6 +169,7 @@ def dashboard() -> str:
 </article>"""
     charts_section = f"""
 <section class="charts" aria-labelledby="charts-h">
+  {profit_loss_panel()}
   <div class="section-head charts-section-head">
     <div><h2 class="type-h2" id="charts-h">Where the money went</h2><p>January to June 2026, IDR millions, grouped the way your accounting framework groups cash flows.</p></div>
     <div class="fw-switch"><span>Framework</span>{seg("fw", [("IFRS", "IFRS"), ("US_GAAP", "US GAAP")], "IFRS", "Accounting framework")}</div>
@@ -206,11 +207,10 @@ def dashboard() -> str:
     content = f"""
 <div class="page">
   <div class="dash">
-    {hero}
     {figs}
-    {lists}
-    {profit_loss_panel()}
     {charts_section}
+    {hero}
+    {lists}
     {months}
     {found}
   </div>
@@ -777,10 +777,23 @@ def assistant() -> str:
             <p>The quickest check is to download March again from internet banking and upload it. Want me to open the evidence?</p>
             <div class="row"><a class="button button-secondary button-sm" href="evidence-viewer.html">Open the evidence</a><a class="button button-quiet button-sm" href="month.html">Go to March</a></div>
           </div>
+        <p class="msg-user">Show my profit and loss for 2026-03</p>
+        <div class="msg-ai"><img class="ai-mark" src="{BRAND}/kredibel-mark.svg" alt="Kredibel"/>
+          <div class="bubble">
+            <p>Accrual management P&amp;L from imported posted ledger entries only. These totals do not certify that the company books are complete.</p>
+            <div class="mini-bars" role="img" aria-label="Profit and loss for 2026-03">
+              <div class="mb"><span>Revenue</span><span class="bar" style="width:100%"></span><b>120.0 M</b></div>
+              <div class="mb"><span>Cost of sales</span><span class="bar" style="width:60%"></span><b>72.0 M</b></div>
+              <div class="mb"><span>Gross profit</span><span class="bar" style="width:40%"></span><b>48.0 M</b></div>
+              <div class="mb"><span>Operating expenses</span><span class="bar" style="width:15%"></span><b>18.0 M</b></div>
+              <div class="mb"><span>Net profit</span><span class="bar" style="width:22%"></span><b>26.0 M</b></div>
+            </div>
+            <p>Net profit: IDR 26,000,000 <a class="citation" href="profit-loss.html">Net profit</a></p>
+            <div class="row"><a class="button button-secondary button-sm" href="profit-loss.html">Open profit and loss</a></div>
+            <span class="grounded">{icon("shield-check")}Every number checked against your books</span>
+          </div>
         </div>
       </div>
-      <p class="msg-user">Show my profit and loss for 2026-03</p>
-      <div class="msg-ai"><div class="bubble"><p>Accrual management P&amp;L from imported posted ledger entries only. These totals do not certify that the company books are complete.</p><p>Net profit: IDR 26,000,000 <a class="citation" href="profit-loss.html">Net profit</a></p><a class="button button-secondary" href="profit-loss.html">Open profit and loss</a></div></div>
       <div class="suggested" aria-label="Suggested questions"><a href="#">Which invoices are still unpaid?</a><a href="#">Where did the money go in Q2?</a><a href="#">Who are my biggest clients?</a></div>
       <div class="composer"><p>Ask about your books</p><button class="button button-primary" type="button" aria-label="Send">{icon("send", "icon icon-sm")}</button></div>
     </div>

diff --git a/backend/app/services/profit_loss_answer.py b/backend/app/services/profit_loss_answer.py
@@ -36,18 +36,25 @@ def profit_loss_answer(report: ProfitLoss) -> MessageAnswer:
         )
     parts = [AnswerPart(type="text", text=f"{coverage}\n{text}\nPeriod: {report.period}")]
     citations = []
+    chart_rows: list[list[str]] = []
     if any(line.amount is not None for line in report.lines):
         rows = []
+        amounts = [abs(float(line.amount)) for line in report.lines if line.amount is not None]
+        max_val = max(amounts, default=1.0) or 1.0
         for line in report.lines:
             label = line.id.replace("_", " ").capitalize()
             if line.amount is not None:
+                amt = float(line.amount)
                 rows.append([label, f"{line.amount:.2f} {report.currency} [[{line.fact_id}]]"])
                 citations.append(CitationRef(ref=line.fact_id, label=label))
+                pct = f"{min(100, max(8, int((abs(amt) / max_val) * 100)))}%"
+                chart_rows.append([label, f"{amt:,.0f} {report.currency}", pct])
         parts.append(AnswerPart(type="table", columns=["P&L line", "Amount"], rows=rows))
     parts.append(
         AnswerPart(
             type="chart",
             chart="PROFIT_LOSS",
+            rows=chart_rows if chart_rows else None,
             query={"period": report.period, "target": "profit-loss"},
         )
     )

diff --git a/backend/tests/unit/test_profit_loss_assistant.py b/backend/tests/unit/test_profit_loss_assistant.py
@@ -27,5 +27,7 @@ def test_ac018_6_tool_facts_match_api_report_and_include_coverage():
     assert answer.tools_used == ["get_profit_loss"]
     assert {c.ref for c in answer.citations} == {line.fact_id for line in result.lines}
     assert answer.parts[-1].chart == "PROFIT_LOSS"
+    assert answer.parts[-1].rows is not None
+    assert any("Revenue" in r[0] for r in answer.parts[-1].rows)
     assert answer.parts[-1].query is not None
     assert answer.parts[-1].query["period"] == "2026-03"
